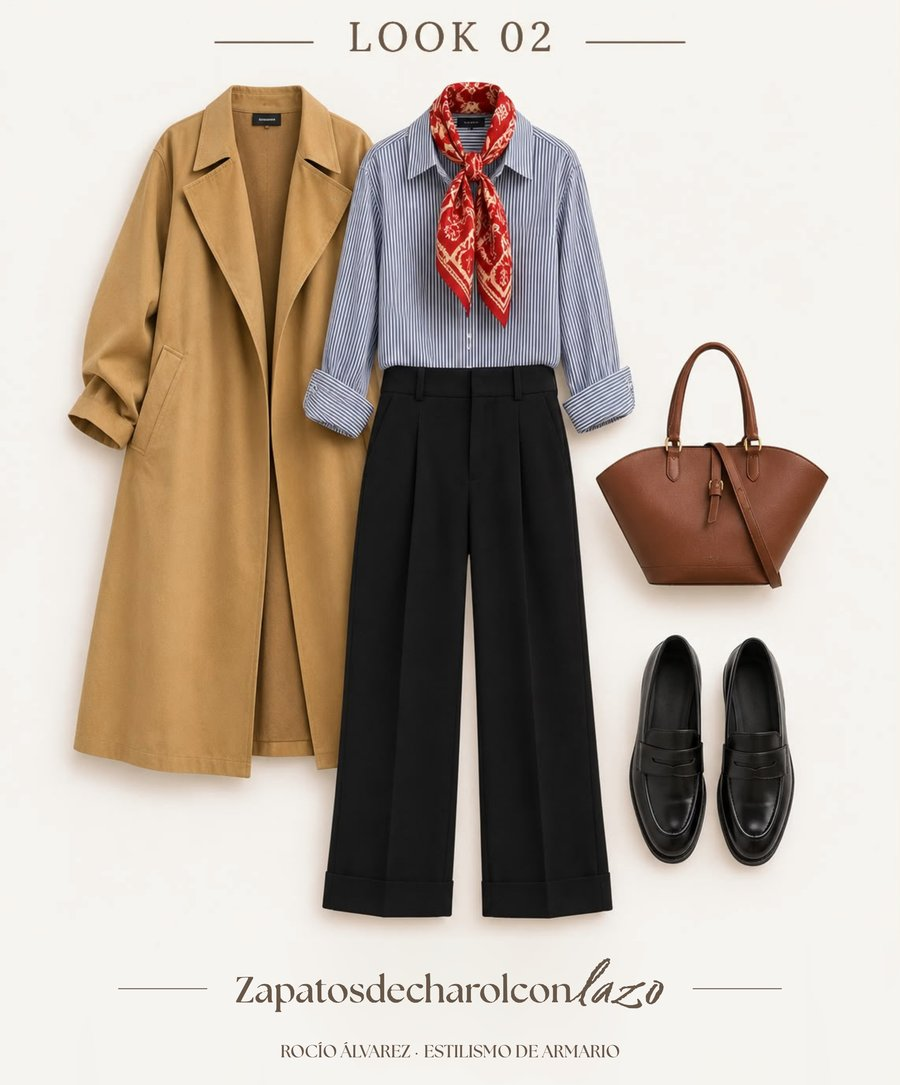
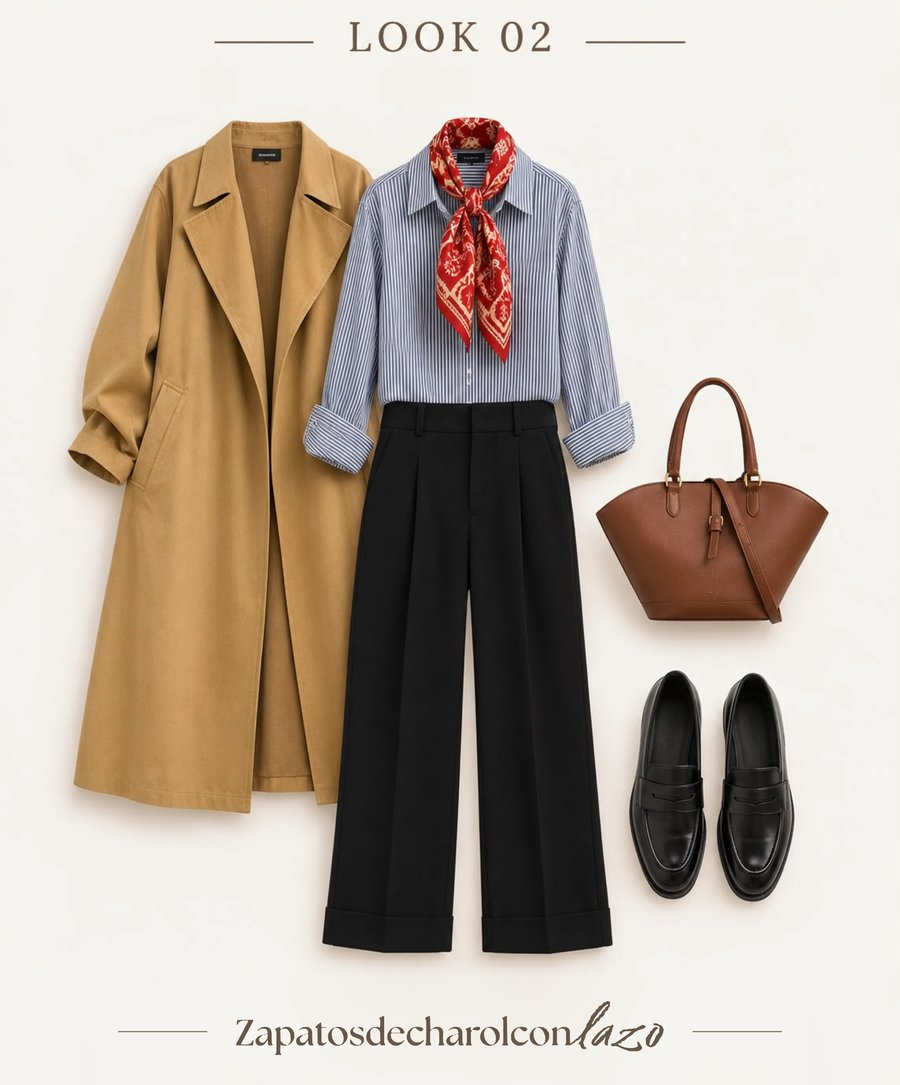
Fichas de looks sin firma y con más aire bajo el título
Claude-Session: https://claude.ai/code/session_01NjNeR3MuqkgZeuTPae6Sfu

Changed region(s): [[0.0622, 0.0608, 0.9333, 0.9733], [0.4978, 0.5171, 0.5289, 0.6691]]

diff --git a/index.html b/index.html
@@ -114,13 +114,13 @@
         </div>
         <div class="looks">
           <figure class="look">
-            <img src="assets/images/web/ficha-look-01.jpg?v=2" alt="Look 01: Blazer negra, jersey rojo sobre los hombros, vaqueros, pañuelo rojo, mocasines de charol y bolso negro" width="900" height="1085" loading="lazy">
+            <img src="assets/images/web/ficha-look-01.jpg?v=3" alt="Look 01: Blazer negra, jersey rojo sobre los hombros, vaqueros, pañuelo rojo, mocasines de charol y bolso negro" width="900" height="1085" loading="lazy">
           </figure>
           <figure class="look">
-            <img src="assets/images/web/ficha-look-02.jpg?v=2" alt="Look 02: Abrigo camel, camisa de rayas, pañuelo rojo, pantalón negro de pinzas, bolso marrón y mocasines negros" width="900" height="1085" loading="lazy">
+            <img src="assets/images/web/ficha-look-02.jpg?v=3" alt="Look 02: Abrigo camel, camisa de rayas, pañuelo rojo, pantalón negro de pinzas, bolso marrón y mocasines negros" width="900" height="1085" loading="lazy">
           </figure>
           <figure class="look">
-            <img src="assets/images/web/ficha-look-03.jpg?v=2" alt="Look 03: Jersey de rayas rojo y camel, pantalón negro ancho, merceditas y mocasines de ante camel" width="900" height="1085" loading="lazy">
+            <img src="assets/images/web/ficha-look-03.jpg?v=3" alt="Look 03: Jersey de rayas rojo y camel, pantalón negro ancho, merceditas y mocasines de ante camel" width="900" height="1085" loading="lazy">
           </figure>
         </div>
       </div>
